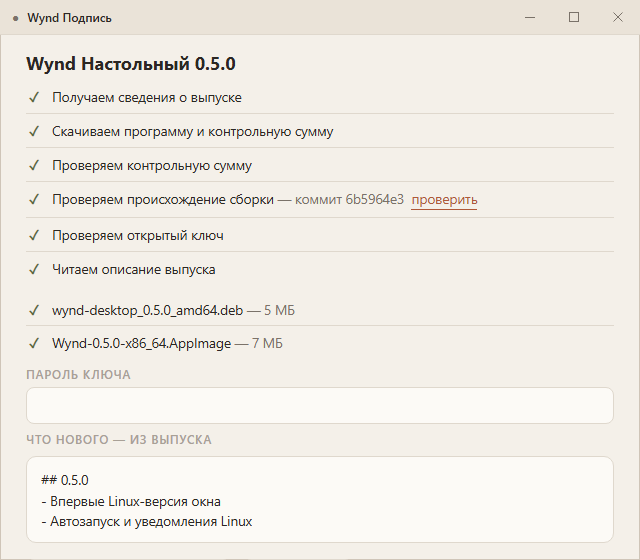
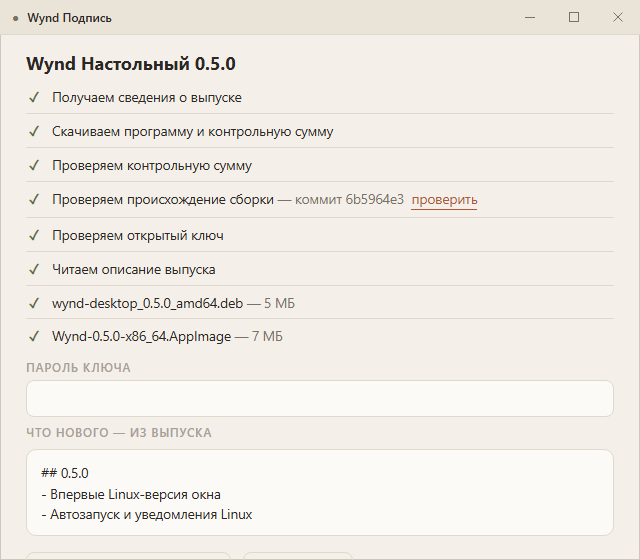
Подпись: Linux-файлы в общем списке проверок
Отдельный MarkRows давал лишний разрыв между шагами и файлами. Строки
Linux теперь идут в том же StepList без промежутка; StepList получил
необязательный extra-сниппет, другие экраны не меняются. Кадр обновлён,
exe пересобран.

Changed region(s): [[0.0312, 0.7286, 0.9375, 0.9714], [0.0312, 0.5161, 0.9375, 0.6982]]

diff --git a/cmd/wynd-signer/frontend/src/App.svelte b/cmd/wynd-signer/frontend/src/App.svelte
@@ -512,17 +512,21 @@
 		{:else if screen === 'release'}
 			<!-- Проверки, пароль, подпись и итог остаются на одном экране. -->
 			<h2>{productName} {version}</h2>
-			<StepList steps={checkSteps} onlink={(url) => void backend().OpenLink(url)} />
-			{#if check?.extra?.length}
-				<MarkRows class="mt-8">
-					{#each check.extra as a (a.name)}
-						<MarkRow mark={a.sum_ok && a.attest_ok ? '✓' : '!'} tone={a.sum_ok && a.attest_ok ? 'ok' : 'block'}>
-							{a.name}
-							<span class="ins-dim">— {mb(a.size)}</span>
-						</MarkRow>
-					{/each}
-				</MarkRows>
-			{/if}
+			<StepList steps={checkSteps} onlink={(url) => void backend().OpenLink(url)}>
+				{#snippet extra()}
+					{#if check?.extra?.length}
+						{#each check.extra as a (a.name)}
+							<MarkRow
+								mark={a.sum_ok && a.attest_ok ? '✓' : '!'}
+								tone={a.sum_ok && a.attest_ok ? 'ok' : 'block'}
+							>
+								{a.name}
+								<span class="ins-dim">— {mb(a.size)}</span>
+							</MarkRow>
+						{/each}
+					{/if}
+				{/snippet}
+			</StepList>
 			{#if checkError}<Notice tone="bad" alert>{checkError}</Notice>{/if}
 			{#if check?.problem}<Notice tone="bad" alert>{check.problem}. Такой выпуск подписывать нельзя.</Notice>{/if}
 			{#if signSteps.length}<StepList steps={signSteps} />{/if}

diff --git a/web/src/lib/components/workshop/StepList.svelte b/web/src/lib/components/workshop/StepList.svelte
@@ -3,6 +3,7 @@
 	import MarkRows from '$ui/workshop/MarkRows.svelte';
 	import Meter from '$ui/forms/Meter.svelte';
 	import TextButton from '$ui/forms/TextButton.svelte';
+	import type { Snippet } from 'svelte';
 
 	// Ход работы Мастерской (план 54): установка, обновление, бэкап, переезд.
 	// Шаги приходят из Go (internal/workshop, StepState).
@@ -23,13 +24,16 @@
 		meter = false,
 		class: className = '',
 		style = '',
-		onlink
+		onlink,
+		extra
 	}: {
 		steps: Step[];
 		meter?: boolean;
 		class?: string;
 		style?: string;
 		onlink?: (url: string) => void;
+		/** Дополнительные строки в том же списке (файлы выпуска у «Подписи»). */
+		extra?: Snippet;
 	} = $props();
 
 	function mark(step: Step): string {
@@ -57,7 +61,8 @@
 			{#if step.latest}<div class="ins-step-latest ins-mono">{step.latest}</div>{/if}
 			{#if step.latest_note}<div class="ins-dim ins-step-note">{step.latest_note}</div>{/if}
 		</MarkRow>
-	{/each}
+		{/each}
+		{@render extra?.()}
 </MarkRows>
 
 <style>
